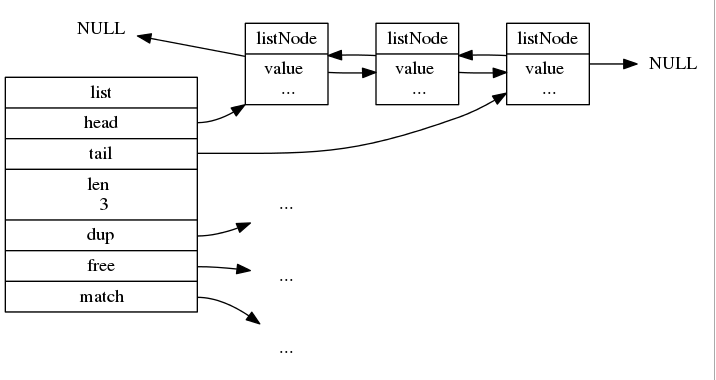
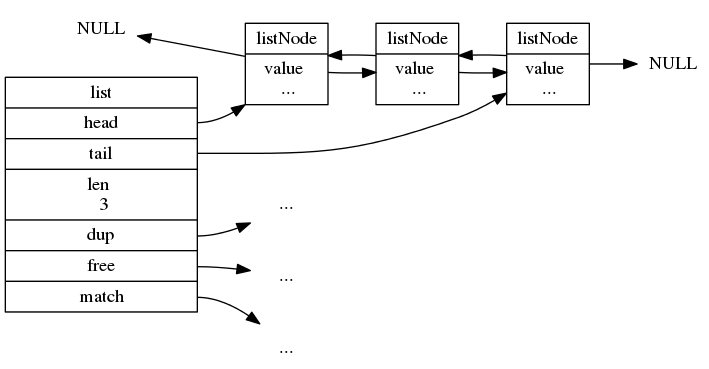
Update figures

Changed region(s): [[0.0, 0.0, 1.0, 1.0], [0.0931, 0.0596, 0.1862, 0.0894]]

diff --git a/redis/learning-redis/dict.md b/redis/learning-redis/dict.md
@@ -29,7 +29,7 @@
 
   + 图示（size为4的空哈希表）
 
-    + ![image](https://github.com/baozi929/Notes/blob/main/redis/learning-redis/figures/dict_emptyHashTable.png)
+    + <img src="https://github.com/baozi929/Notes/blob/main/redis/learning-redis/figures/dict_emptyHashTable.png" width="200"/><br/>
 
 + 哈希表节点
 
